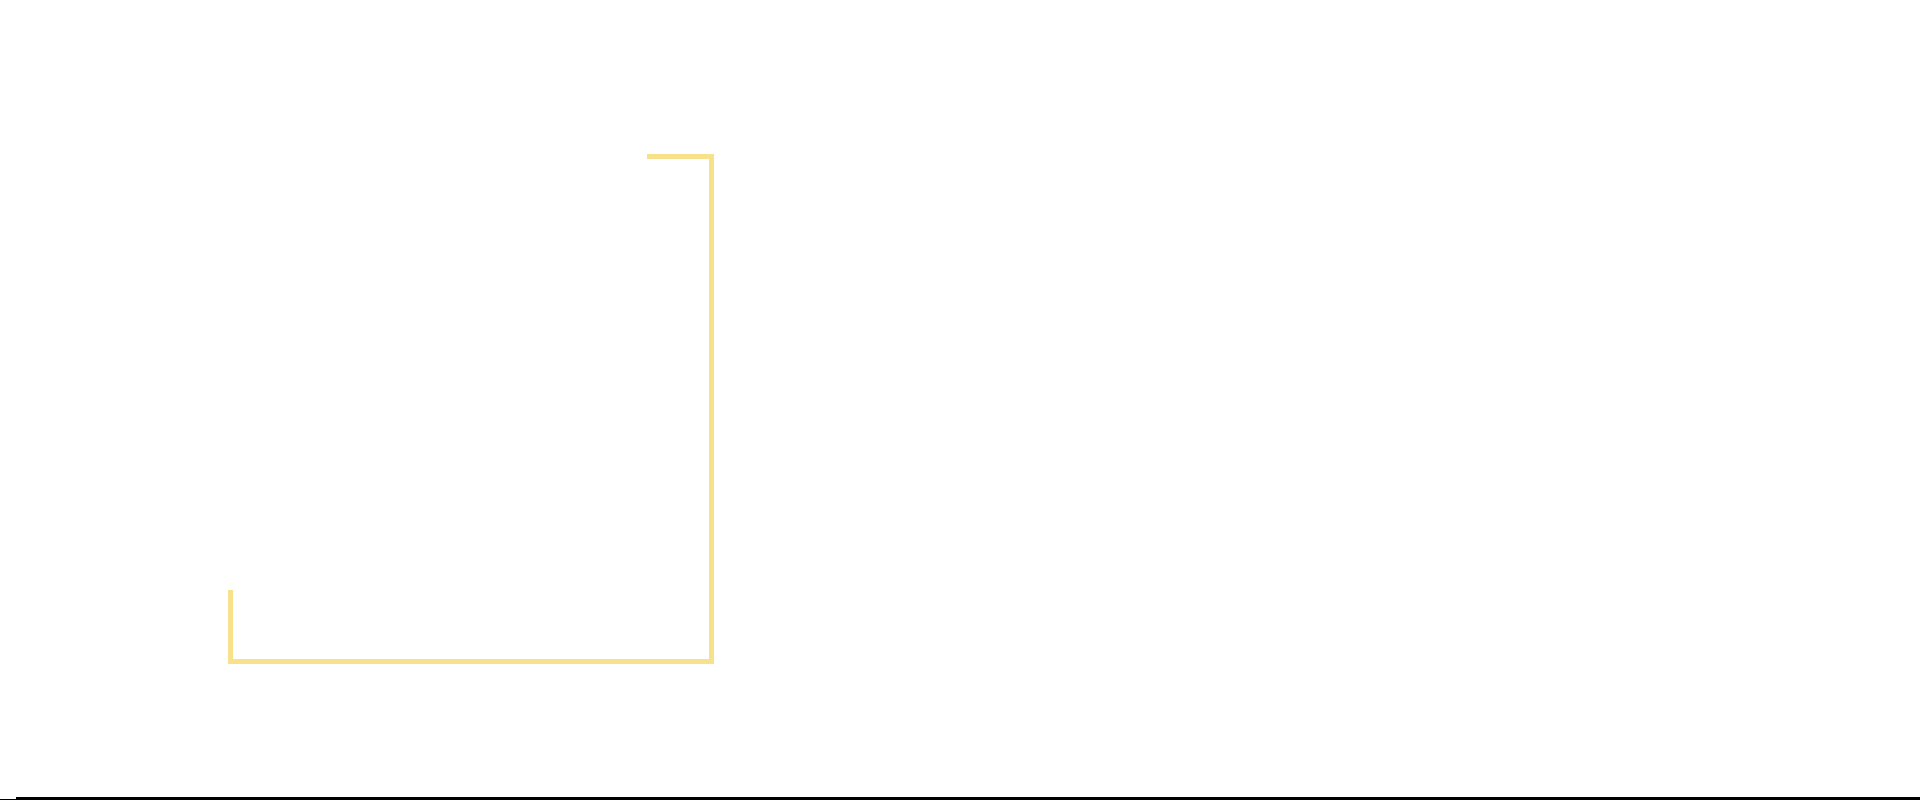
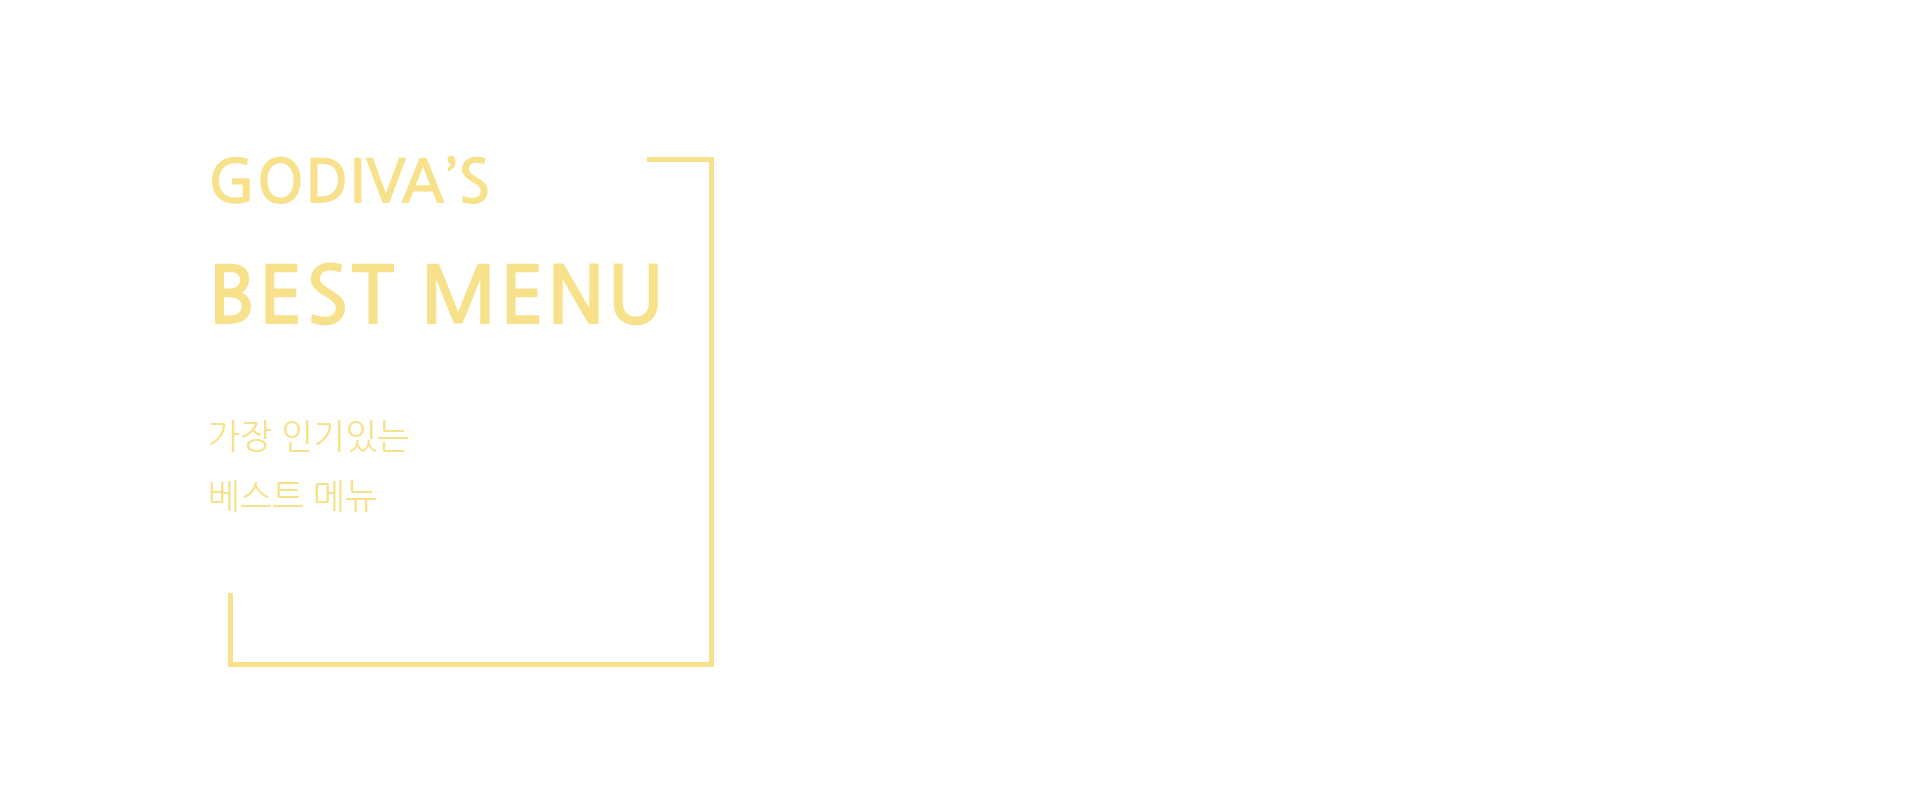
menu end

diff --git a/css/index_1.css b/css/index_1.css
@@ -39,7 +39,7 @@
 		.page_01 .slide {
 			width: 100%;
 			height: 1080px;
-			background-image: url('../img/bslide/slide_01.png');
+			background-image: url('../img/slide/slide_01.png');
 			background-repeat: no-repeat;
 			background-size: 100% auto;
 		}
@@ -200,7 +200,8 @@
 				text-align: center;
 				margin: 10px auto;
 				border: 1px solid #f7e18a;
-				
+				letter-spacing: 0.2em;
+				text-indent: 0.2em;
 			}
 			
 			.text .btn a {
@@ -236,7 +237,7 @@
 			
 			.co {
 				margin-top: 5%;
-				color: #f7e18a;
+				color: #fff;
 			}
 			
 			.co p {
@@ -245,7 +246,11 @@
 				font-weight: bold;
 			}
 			
-			.co span {
+			.co span.first {
+				color: #f7e18a;
+			}
+			
+			.co span.content {
 				font-size: 1rem;
 				line-height: 2;
 			}
@@ -291,8 +296,158 @@
 			.page_03 {
 				width: 100%;
 				height: 800px;
-				background: #222 url('../img/best_menu/frame.png') no-repeat;
+				background: #111 url('../img/best_menu/frame.png') no-repeat;
 				background-size: 100%;
 			}
 			
+			.content_container {
+				width: 50%;
+				float: right;
+				margin: 10% 5% 10% 0;
+				overflow: hidden;
+			}
+			
+			.best_banner {
+				width: 31.333%;
+				float: left;
+				color: #000;
+				text-align: center;
+				background: #f7e18a;
+			}
+						
+			.best_banner img {
+				vertical-align: bottom;
+				border: none;
+				
+			}
+			
+			.content_container .mar {
+				margin-right: 3%;
+			}
+			
+			.best_banner .best {
+				width: 100%;
+				background: #fff;
+			}
+			
+			.best_banner .sign {
+				background: #000;
+				color: #fff;
+				font-size: 1rem;
+				font-weight: bold;
+				padding: 5%;
+				letter-spacing: 0.1em;
+				text-indent: 0.1em;
+			}
+			
+			.best_banner .title {
+				font-size: 1rem;
+				font-weight: bold;
+				padding: 10% 5%;
+			}
+			
+			
+			/* ---------------------------------------메뉴-------*/
+			
+			.page_04 {
+				width: 100%;
+				height: 1200px;
+				background: #000 url('../img/menu/background.png') no-repeat;
+				background-size: cover;
+				background-attachment: fixed;
+			}
+			
+			.menu_title {
+				width: 50%;
+				color: #fff;
+				padding: 10% 0;
+				margin: 0 auto;
+				text-align: center;
+			}
+			
+			.menu_title span {
+				font-size: 3rem;
+				font-weight: bold;
+			}
+			
+			.menu_title p {
+				font-size: 4rem;
+				font-weight: bold;
+			}
+			
+			.menu_title hr {
+				margin: 2% auto;
+				width: 50%;
+			}
+			
+			.menu_con {
+				width: 80%;
+				margin: 0 auto;
+				overflow: hidden;
+			}
+			
+			.menu_chocolate, .menu_dessert, .menu_icecream, .menu_drink {
+				width: 23.5%;
+				height: 500px;
+				background: #111;
+				float: left;
+				text-align: center;
+				color: #fff;
+			}
+			
+			.menu_con .mar {
+				margin-right: 2%;
+			}
+			
+			.menu_con span {
+				font-size: 1.5rem;
+			}
+			
+			.menu_chocolate {
+				background: url('../img/menu/menu_01.jpg') no-repeat;
+				background-size: cover;
+				background-position: -90px bottom;
+			}
+			
+			.menu_chocolate_text {
+				width: 100%;
+				background: rgba(0,0,0,.8);
+				padding: 5% 0;
+			}
+			
+			.menu_dessert {
+				background: url('../img/menu/menu_02.jpg') no-repeat;
+				background-size: cover;
+				background-position: center bottom;
+			}
+			
+			.menu_dessert_text {
+				width: 100%;
+				background: rgba(0,0,0,.8);
+				padding: 5% 0;
+			}
+			
+			.menu_icecream {
+				background: url('../img/menu/menu_03.jpg') no-repeat;
+				background-size: cover;
+				background-position: center bottom;
+			}
+			
+			.menu_icecream_text {
+				width: 100%;
+				background: rgba(0,0,0,.8);
+				padding: 5% 0;
+			}
+				
+			.menu_drink {
+				background: url('../img/menu/menu_04.jpg') no-repeat;
+				background-size: cover;
+				background-position: center bottom;
+			}
+			
+			.menu_drink_text {
+				width: 100%;
+				background: rgba(0,0,0,.8);
+				padding: 5% 0;
+			}
 			

diff --git a/index_1.html b/index_1.html
@@ -106,26 +106,26 @@
 				
 				<div class="royalty co">
 					<img src="img/metaphor/meta_1_g.png" alt="royalty"/>
-					<p>Royalty</p>
-					<span>벨기에 왕실 공식</span><br/>
-					<span>쇼콜라티에로 지정된</span><br/>
-					<span>벨기에 대표 초콜릿 브랜드</span><br/>
+					<p><span class="first">R</span>oyalty</p>
+					<span class="content">벨기에 왕실 공식</span><br/>
+					<span class="content">쇼콜라티에로 지정된</span><br/>
+					<span class="content">벨기에 대표 초콜릿 브랜드</span><br/>
 				</div>
 				
 				<div class="quality co">
 					<img src="img/metaphor/meta_2_g.png" alt="quality"/>
-					<p>Quality</p>
-					<span>전 세계에서 엄선된</span><br/>
-					<span>가장 좋은 코코아빈을</span><br/>
-					<span>원료로 사용</span><br/>
+					<p><span class="first">Q</span>uality</p>
+					<span class="content">전 세계에서 엄선된</span><br/>
+					<span class="content">가장 좋은 코코아빈을</span><br/>
+					<span class="content">원료로 사용</span><br/>
 				</div>
 				
 				<div class="global co">
 					<img src="img/metaphor/meta_3_g.png" alt="global"/>
-					<p>Global</p>
-					<span>가치를 인정받아</span><br/>
-					<span>전 세계 100여 개국에서</span><br/>
-					<span>매장을 운영 중</span><br/>
+					<p><span class="first">G</span>lobal</p>
+					<span class="content">가치를 인정받아</span><br/>
+					<span class="content">전 세계 100여 개국에서</span><br/>
+					<span class="content">매장을 운영 중</span><br/>
 				</div>
 				
 			</div>
@@ -134,13 +134,79 @@
 	
 <!-------------------------베스트메뉴------------------------->
 
+
 		<section class="page_03">
 
-			
+			<div class="content_container">
+				<div class="best_banner mar">
+					<a class="best_image" href="#"><img src="img/best_menu/best_01.png" alt="bestmenu"/></a>
+					<div class="text_01 best">
+					<p class="sign">BEST SELLER</p>
+					<p class="title">프레스티지 비스킷 컬렉션 32개입<br/><br/>
+					<span>\42,000</span></p>
+					</div>
+				</div>
+				
+				<div class="best_banner mar">
+					<a class="best_image" href="#"><img src="img/best_menu/best_02.png" alt="bestmenu"/></a>
+					<div class="text_02 best">
+					<p class="sign">BEST SELLER</p>
+					<p class="title">프레스티지 비스킷 레이디 밀크 12개입<br/><br/>
+					<span>\18,000</span></p>
+					</div>
+				</div>
+				
+				<div class="best_banner">
+					<a class="best_image" href="#"><img src="img/best_menu/best_03.png" alt="bestmenu"/></a>
+					<div class="text_03 best">
+					<p class="sign">BEST SELLER</p>
+					<p class="title">스파클링 위시 하트틴 5개입<br/><br/>
+					<span>\15,000</span></p>
+					</div>
+				</div>		
+			</div> 
 
 		</section>
 	
-	
+<!-------------------------메뉴------------------------->
+
+
+		<section class="page_04">
+		
+			<div class="menu_title">
+				<p><span>GODIVA's</span>&nbsp;MENU</p>
+				<hr>
+			</div>
+		
+			<div class="menu_con">
+			
+				<a href="#"><div class="menu_chocolate mar">
+					<p class="menu_chocolate_text">
+					<span>Chocolate</span>
+					</p>
+				</div></a>
+				
+				<a href="#"><div class="menu_dessert mar">
+					<p class="menu_dessert_text">
+					<span>Dessert</span>
+					</p>
+				</div></a>
+				
+				<a href="#"><div class="menu_icecream mar">
+					<p class="menu_icecream_text">
+					<span>Ice Cream</span>
+					</p>
+				</div></a>
+				
+				<a href="#"><div class="menu_drink">
+					<p class="menu_drink_text">
+					<span>Drink</span>
+					</p>
+				</div></a>
+				
+			</div>
+		
+		</section>
 	
 	</body>
 	
